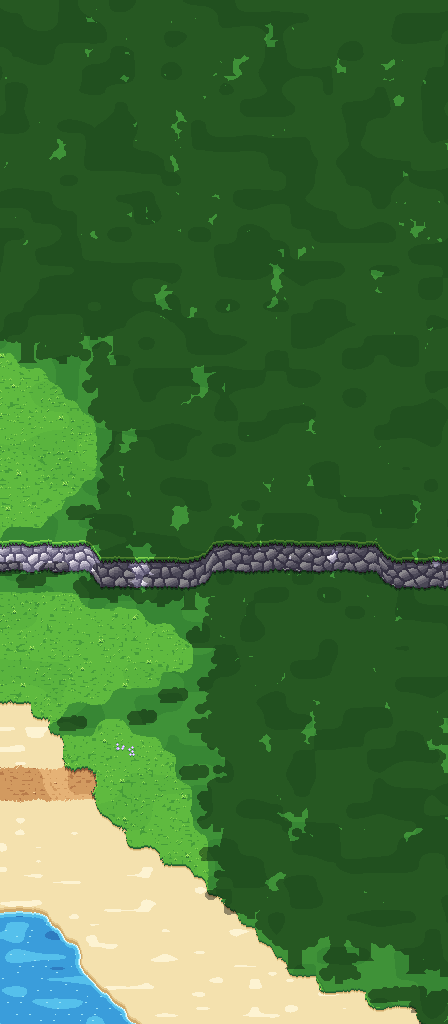
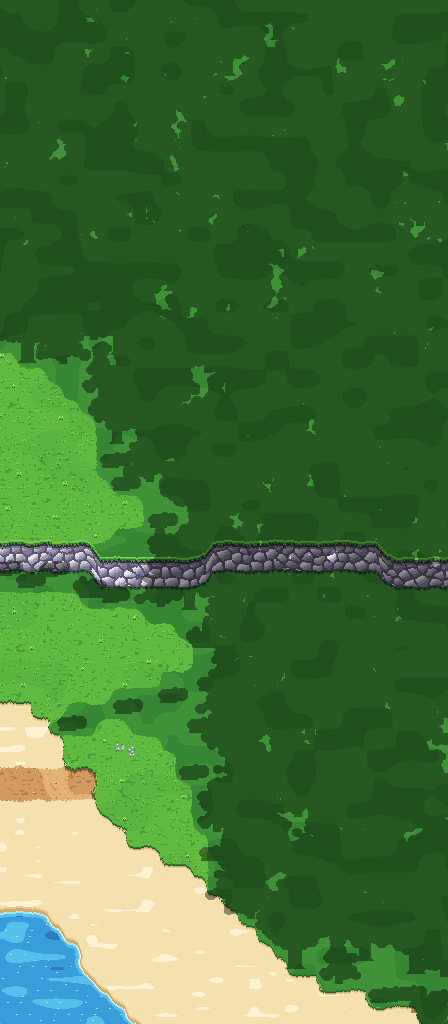
fix(areas): open the coast's bluff top east of the road

diff --git a/game/ArtSource/areas.js b/game/ArtSource/areas.js
@@ -586,7 +586,7 @@
       sand: (x, y) => y > SHORE(x) - 190 + 14 * Math.sin(x / 33),
       roads: [[[[480, -20], [480, 180], [470, 300], [470, 462]], 20], [[[120, 462], [860, 462]], 10]],
       gap: 40,
-      clear: [[480, 330, 480, 80]],
+      clear: [[480, 330, 480, 80], [700, 192, 210, 44]],   // the road down, and the bluff top east of it out to the bench
       species: mix(P => [[0.7, P.pine], [1, P.oak]]),
       jetty: [500, 760, 150],
       things(at) {

diff --git a/GAME-CONTEXT.md b/GAME-CONTEXT.md
@@ -84,6 +84,7 @@ Every fact carries a source tag:
 - `[Decision]` Nora's stilt house has a veranda with her loom on it, where she weaves by day. The chamomile field's fence has a gate in its middle, onto the path between the rows, so the Gardener and the courier can walk in. (2026-10-19)
 - `[Decision]` Theo (a dark-brown many-pocketed vest, a brass magnifier lens, his beret) keeps his own camera on its strap, because his routine has him photographing; Night 3's keepsake is Daniel's 8mm film camera, a different camera. Nelayan Arlo wears a navy knitted wool jumper, olive waders, tall rubber boots and a mustard knitted cap (GDD 6.12 and its sheet). (2026-10-19)
 - `[Decision]` Background ants are unnamed, dressed so none looks like a named villager or another background ant, and never just stand idle: in a pair one listens while the other talks, and at least one walks somewhere with a purpose (to read the notices, to look in at a stall) and comes back. They are out from morning to dusk, and home at night. (2026-10-19)
+- `[Decision]` The grove has no background ants, the one outdoor area without them: its quiet keeps Marlow's hidden shop apart from the busy village. (2026-10-19)
 - `[Decision]` The order of work: the look, proven on the West zone; the whole bigger world; living villagers; the nine interiors. Reference packs and the GDD's AI images are studied for technique only; nothing is traced or copied. (2026-10-18)
 - `[Decision]` The look is a cozy top-down RPG village, not the ant-scale fable: Harvest Moon / zedpxl houses with big roofs and short walls, flat colour with a few deliberate marks, a dark outline on everything that stands, leafy clumped trees, real height (grey cliff faces between terrace levels, stairs, eaves, footings) and bright water. Rich, one-of-a-kind buildings for the story places; simpler homes for background villagers. It replaces the natural-materials look, which felt flat and pasted together. Ants are still the only people and bugs the only animals. (2026-10-18)
 - `[Decision]` Reference packs (zedpxl, LimeZu, Maeve, Kenmi, anokolisa) are studied for technique only, because their licences cannot be bought. Every pixel is drawn in our own code; nothing is copied, traced, downloaded or sampled. The notes are in `game/ArtSource/ART.md`. (2026-10-18)
